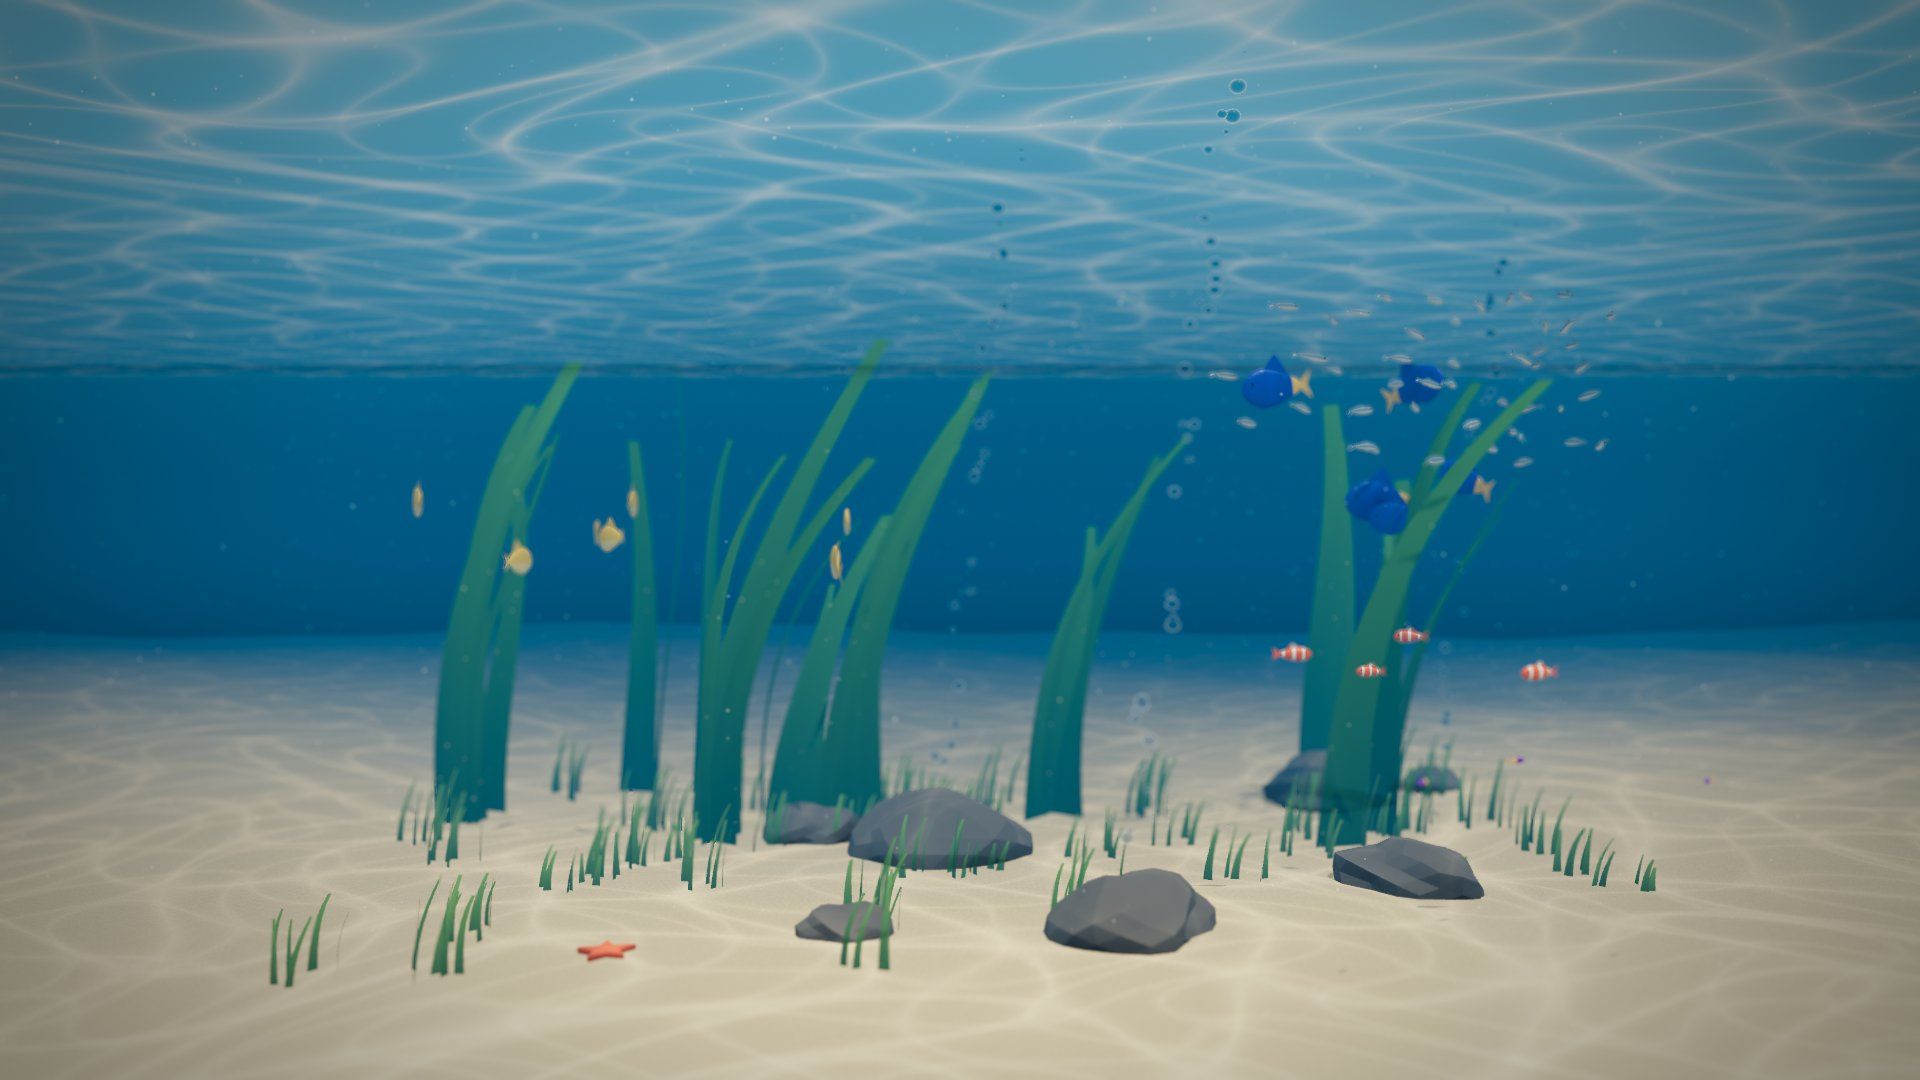
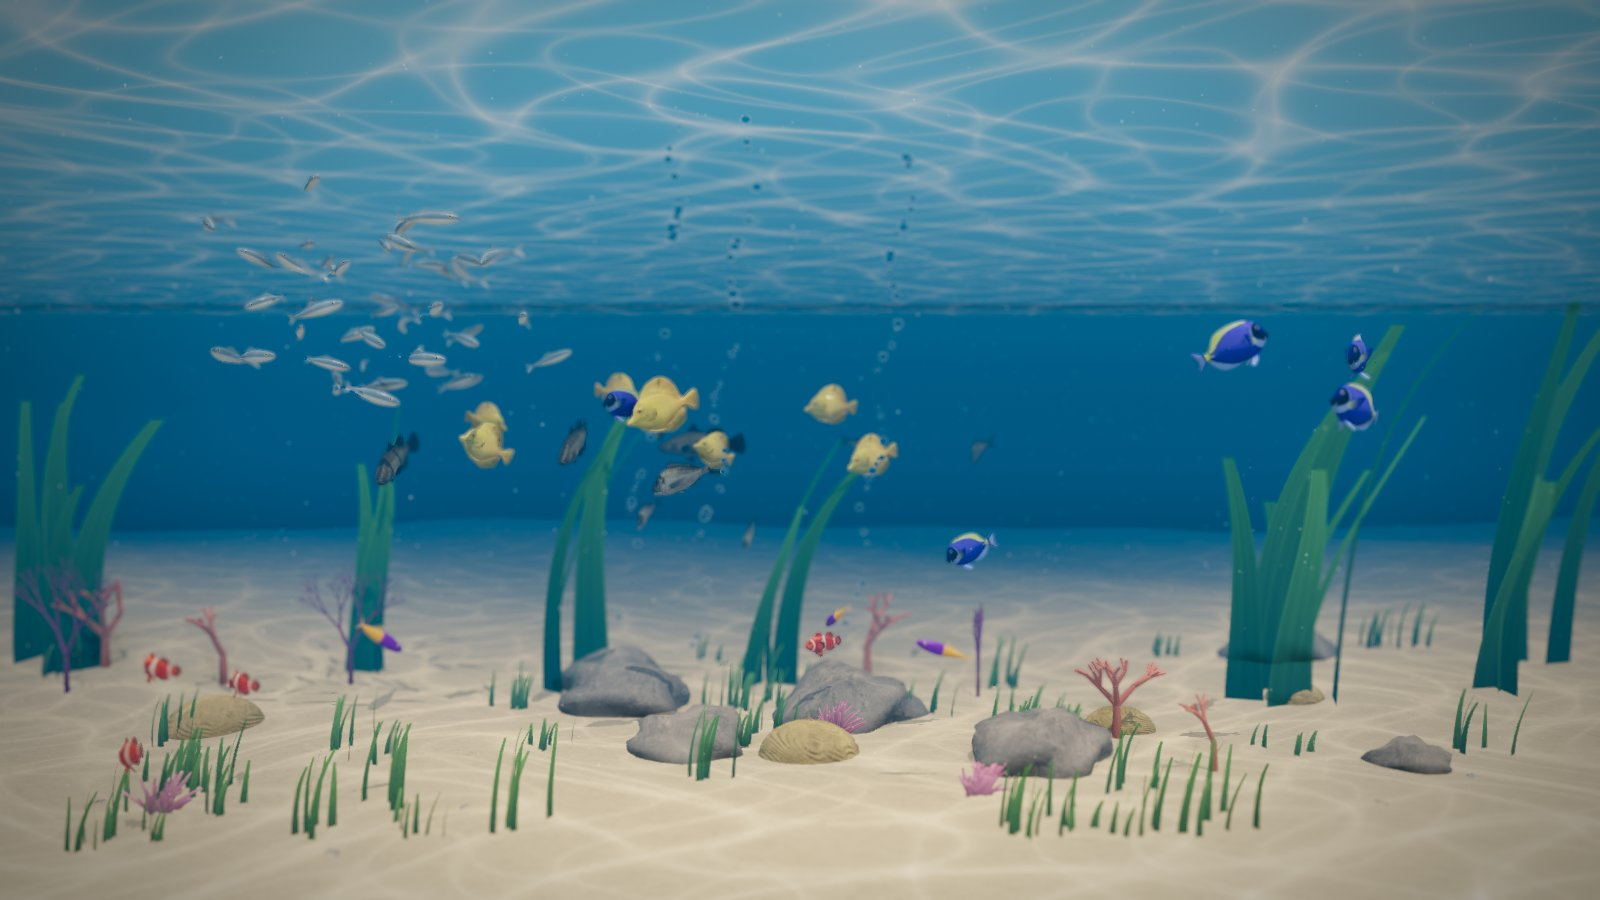
docs: hero image, the demo up front and fresh README pictures
The README opens with the Aquaria hero image, linking to the live demo,
then the open reef with most effects on, a reef tank with the A overlay,
and the four bundled scenes. The two pictures are now rendered by
e2e/readme.spec.ts with `pnpm docs:gallery`, like the other doc pictures.

diff --git a/e2e/readme.spec.ts b/e2e/readme.spec.ts
@@ -1,0 +1,64 @@
+import { test } from "@playwright/test";
+
+/**
+ * Renders the pictures at the top of the README (`pnpm docs:gallery`): the
+ * open reef with most effects on, and a reef tank with the `A` overlay
+ * showing what every fish is doing. Not a test; it runs on demand like the
+ * visual project.
+ */
+
+const SIZE = { width: 1600, height: 900 };
+const JPEG_QUALITY = 85;
+/** Most effects: the look the README's first picture shows off. */
+const RICH_LOOK = [
+  "caustics",
+  "shadows",
+  "reflections",
+  "refractive-bubbles",
+  "fluorescence",
+  "ambient-occlusion",
+  "volumetric-light",
+  "depth-of-field",
+  "bloom",
+  "finish",
+  "smaa",
+].join(",");
+/** Lets the fish settle into what they do before the overlay is shown, ms. */
+const SETTLE_MS = 8000;
+
+test.use({ viewport: SIZE });
+
+test.beforeEach(async ({ page }) => {
+  // A software renderer is slow: keep the full resolution for the picture.
+  await page.addInitScript((height) => {
+    localStorage.setItem(
+      "aquaria.settings",
+      JSON.stringify({ renderHeight: height, autoResolution: false }),
+    );
+  }, SIZE.height);
+});
+
+test("README picture: the open reef with most effects on", async ({ page }) => {
+  await page.goto(`/?scene=reef&frozen=10&hour=12&effects=${RICH_LOOK}`);
+  await page.waitForFunction(() => document.body.dataset.state === "ready");
+
+  await page.screenshot({
+    path: "docs/screenshot-realistic.jpg",
+    type: "jpeg",
+    quality: JPEG_QUALITY,
+  });
+});
+
+test("README picture: what the fish are doing, with A", async ({ page }) => {
+  test.setTimeout(120_000);
+  await page.goto("/?scene=home-reef&hour=12");
+  await page.waitForFunction(() => document.body.dataset.state === "ready");
+  await page.waitForTimeout(SETTLE_MS);
+
+  await page.keyboard.press("a");
+  // The card goes to the fish nearest the pointer.
+  await page.mouse.move(SIZE.width * 0.45, SIZE.height * 0.42);
+  await page.waitForTimeout(1500);
+
+  await page.screenshot({ path: "docs/screenshot.jpg", type: "jpeg", quality: JPEG_QUALITY });
+});

diff --git a/playwright.config.ts b/playwright.config.ts
@@ -27,9 +27,9 @@ export default defineConfig({
     },
   },
   projects: [
-    { name: "e2e", testIgnore: /(visual|gallery|swimming)\.spec\.ts/ },
+    { name: "e2e", testIgnore: /(visual|gallery|swimming|readme)\.spec\.ts/ },
     { name: "visual", testMatch: /visual\.spec\.ts/ },
-    { name: "gallery", testMatch: /(gallery|swimming)\.spec\.ts/ },
+    { name: "gallery", testMatch: /(gallery|swimming|readme)\.spec\.ts/ },
   ],
   webServer: {
     command: `pnpm build && pnpm preview --port ${PORT} --strictPort`,

diff --git a/README.md b/README.md
@@ -1,21 +1,33 @@
 # Aquaria
 
+[![Aquaria, a real-time 3D aquarium for the browser](docs/hero.jpg)](https://nispa.github.io/Aquaria/)
+
+<h3 align="center">▶ <a href="https://nispa.github.io/Aquaria/">Play the live demo</a></h3>
+
+<p align="center">No install: it runs in any recent desktop browser.</p>
+
 A real-time 3D aquarium for the browser, built for large screens: from a
 Full HD monitor up to a 4K LED wall. Every tank is described in a JSON file
 (water, light, current, plants, rocks and fish), and the engine brings it to
 life with Three.js.
 
-### ▶ [Play the live demo](https://nispa.github.io/Aquaria/)
+In the demo, feed the fish, tap the glass, draw circles to hypnotize them,
+light them with a torch (`T`), press `A` to see what each one is doing and `H`
+for the control panel. On a laptop, let the browser use the dedicated GPU (see
+[Use the dedicated GPU](#use-the-dedicated-gpu)).
 
-Runs in any recent desktop browser, no install. Feed the fish, tap the glass,
-draw circles to hypnotize them, light them with a torch (`T`), press `A` to see
-what each one is doing and `H` for the control panel. On a laptop, let the
-browser use the dedicated GPU (see [Use the dedicated GPU](#use-the-dedicated-gpu)).
+![The open reef with caustics, shadows, reflections, ambient occlusion, volumetric light and depth of field](docs/screenshot-realistic.jpg)
 
-![The tropical reef scene with shadows, reflections, ambient occlusion, volumetric light and depth of field](docs/screenshot-realistic.jpg)
+<sub>The open reef with most effects on.</sub>
 
-<sub>With most effects on. A lighter setup is in
-[docs/screenshot.jpg](docs/screenshot.jpg).</sub>
+![A reef tank with the A overlay: what every fish is doing, and a card for the fish under the pointer](docs/screenshot.jpg)
+
+<sub>A reef tank with `A` on: what every fish is doing (wandering, pecking,
+inspecting), and a card for the fish under the pointer.</sub>
+
+| [![Tropical reef](docs/scenes/reef.jpg)](#bundled-scenes) | [![Home reef](docs/scenes/home-reef.jpg)](#bundled-scenes) | [![Planted tank](docs/scenes/planted-tank.jpg)](#bundled-scenes) | [![Iwagumi](docs/scenes/iwagumi.jpg)](#bundled-scenes) |
+| :-------------------------------------------------------: | :--------------------------------------------------------: | :--------------------------------------------------------------: | :----------------------------------------------------: |
+|                       Tropical reef                       |                         Home reef                          |                           Planted tank                           |                        Iwagumi                         |
 
 ## Features
 
